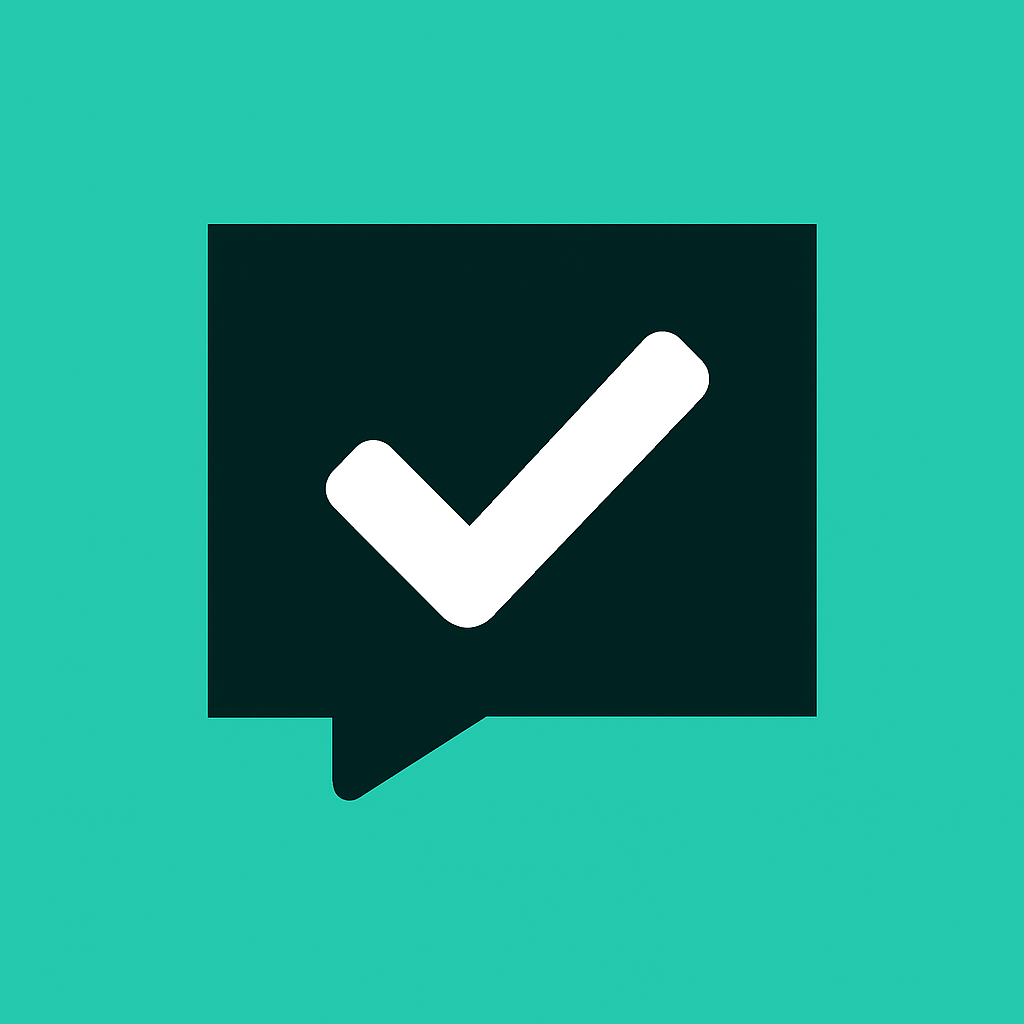
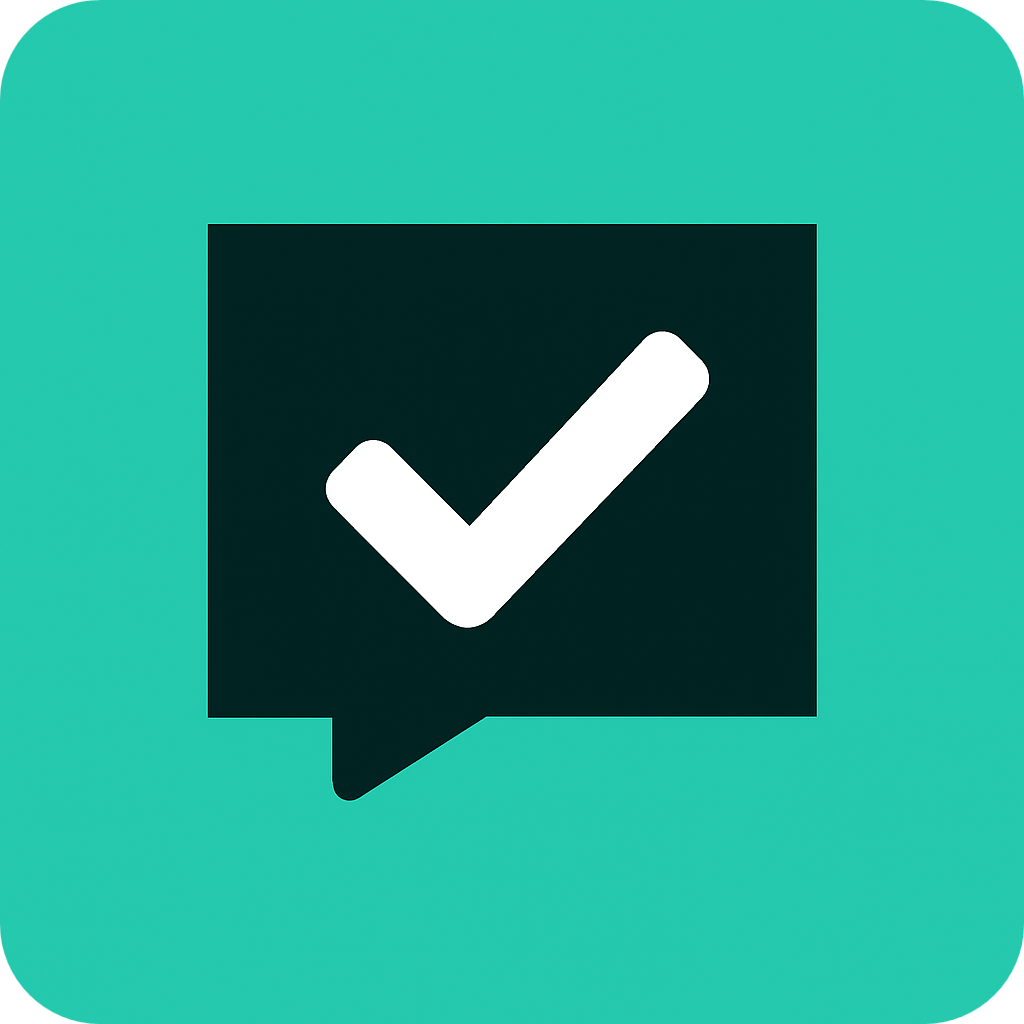
Update Votice app link and replace Votice image file
- Change Votice app link in README.MD to the correct URL format
- Update binary Votice image file in assets directory

no message

diff --git a/README.MD b/README.MD
@@ -64,7 +64,7 @@
     <img src="/assets/scubaplan.png" height="100" alt="ScubaPlan"/>
   </a>
   <b>ScubaPlan</b>: Dive planner for recreational divers.<br><br>
-  <a href="https://apps.apple.com/us/app/votice/id6673904950">
+  <a href="https://apps.apple.com/us/app/id6673904950">
     <img src="/assets/votice.png" height="100" alt="Votice"/>
   </a>
   <b>Votice</b>: A complete solution to collect, manage and act on user feedback for your apps.
